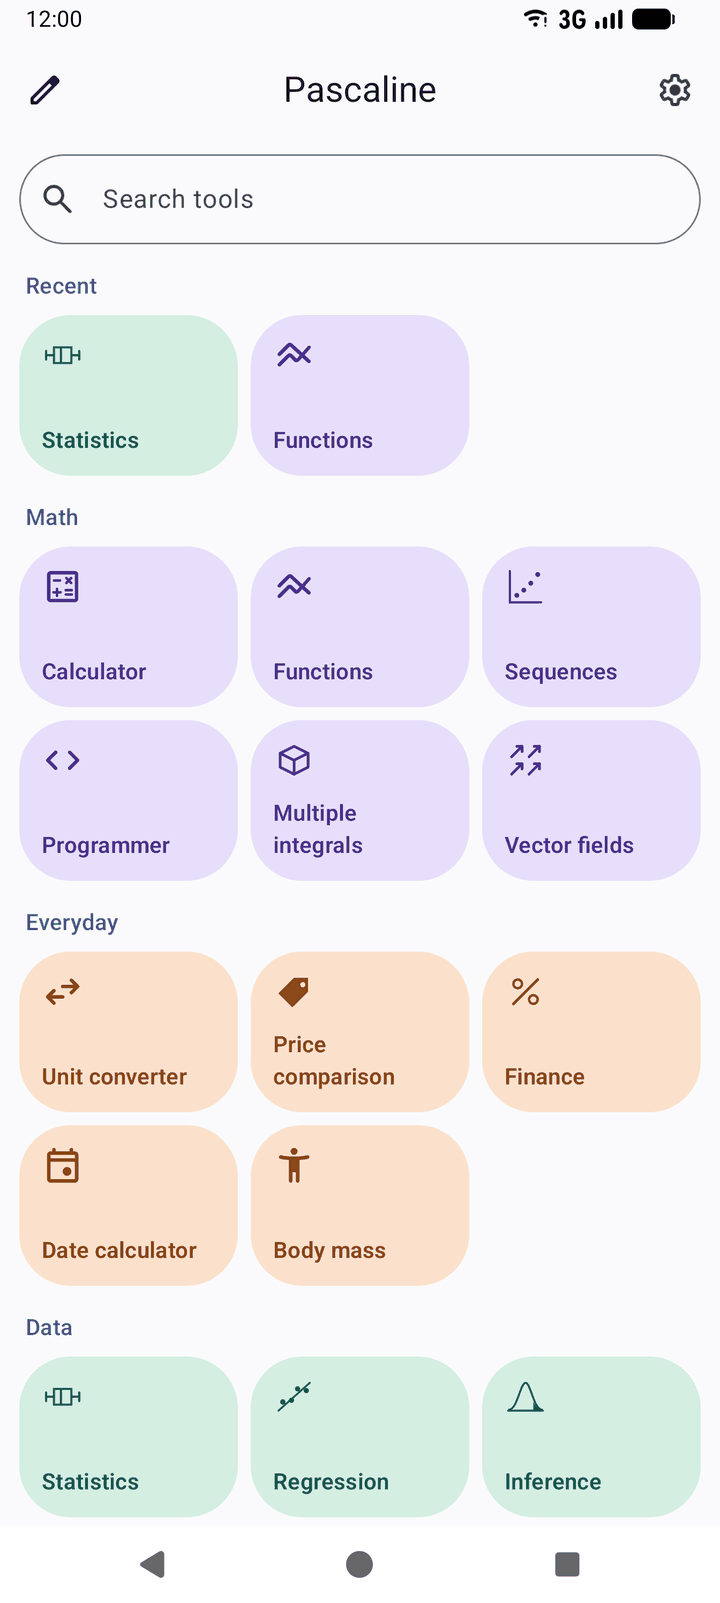
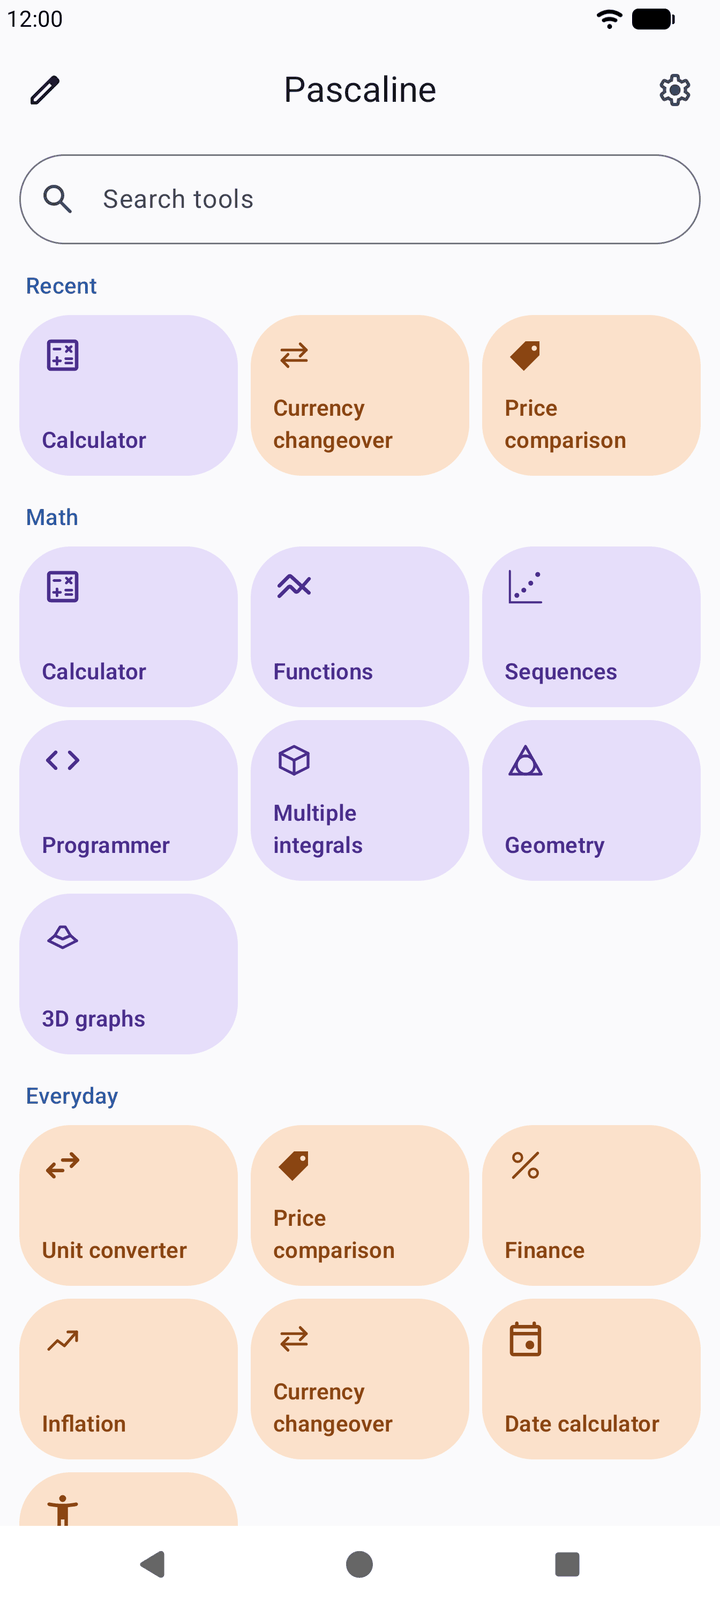
Show the new tools in the README
New pictures of Home, Geometry, 3D graphs, Gears and Currency
changeover, each in its section. Persian is listed with the other
languages, now 23, and Vector fields, part of 3D graphs now, is no
longer named on its own.

diff --git a/README.md b/README.md
@@ -64,7 +64,7 @@ Apps like [AppVerifier](https://github.com/soupslurpr/AppVerifier) show it for a
 <table>
   <tr>
     <td align="center" valign="top" width="33%">
-      <img src="docs/screenshots/home.png" width="240" alt="Home with a search box, the recent tools, then the Math, Everyday and Data sections" /><br />
+      <img src="docs/screenshots/home.png" width="240" alt="Home with a search box, the recent tools, then the Math and Everyday sections with Geometry, 3D graphs, Inflation and Currency changeover" /><br />
     </td>
     <td valign="top">
       Home lists every tool, grouped by topic: <b>Math</b>, <b>Everyday</b>, <b>Data</b>, <b>Science</b> and <b>Electronics</b>.<br /><br />
@@ -122,10 +122,20 @@ Apps like [AppVerifier](https://github.com/soupslurpr/AppVerifier) show it for a
 
 <table>
   <tr>
-    <td align="center" valign="top" width="50%">
+    <td align="center" valign="top" width="33%">
       <b>Multiple integrals</b><br />
       <img src="docs/screenshots/multiple-integrals.png" width="240" alt="The double integral of 4 − x² − y² over the unit disk drawn as a volume in 3D, equal to 10.9957" /><br />
       <sub>Double and triple integrals in 3D you turn with a finger, with bounds that depend on x and y</sub>
+    </td>
+    <td align="center" valign="top" width="33%">
+      <b>3D graphs</b><br />
+      <img src="docs/screenshots/3d-graphs.png" width="240" alt="The level curves of x³ − 3x + y² with the gradient arrows, a minimum at (1, 0) and a saddle point at (−1, 0)" /><br />
+      <sub>Surfaces in 3D or as level curves, with ∇f, div and rot, and the critical points</sub>
+    </td>
+    <td align="center" valign="top" width="33%">
+      <b>Geometry</b><br />
+      <img src="docs/screenshots/geometry.png" width="240" alt="A triangle from a = 7, b = 5 and C = 60°, drawn to scale, with its sides, angles, area, perimeter and heights" /><br />
+      <sub>Triangles from any three values, quadrilaterals, circles and solids</sub>
     </td>
   </tr>
 </table>
@@ -181,6 +191,15 @@ Apps like [AppVerifier](https://github.com/soupslurpr/AppVerifier) show it for a
       <sub>The periodic table, with an animated atom</sub>
     </td>
   </tr>
+  <tr>
+    <td align="center" valign="top" width="33%">
+      <b>Gears</b><br />
+      <img src="docs/screenshots/gears.png" width="240" alt="A train of four gears with two on one shaft, a 6 : 1 ratio, 250 rpm out, the torque, efficiency and power" /><br />
+      <sub>Trains, worms, racks, planetary sets and a ratio finder</sub>
+    </td>
+    <td></td>
+    <td></td>
+  </tr>
 </table>
 
 ### ⚡ Electronics
@@ -220,15 +239,24 @@ Apps like [AppVerifier](https://github.com/soupslurpr/AppVerifier) show it for a
       <sub>Loans, savings, and simple and compound interest</sub>
     </td>
     <td align="center" valign="top" width="33%">
-      <b>And more</b><br />
-      <sub>Sequences, 3D graphs, Orbits, Gears (trains, worms, racks, planetary sets and a ratio finder), Logic gates, Inflation, Currency changeover, Price comparison, Date calculator and Body mass</sub>
+      <b>Currency changeover</b><br />
+      <img src="docs/screenshots/currency-changeover.png" width="240" alt="1 000 French francs in 1995 are worth about 244.98 € today with inflation, 152.45 € at the fixed rate, with the timeline of the franc" /><br />
+      <sub>Old money in euros, with what it was worth then and now</sub>
     </td>
+  </tr>
+  <tr>
+    <td align="center" valign="top" width="33%">
+      <b>And more</b><br />
+      <sub>Sequences, Orbits, Logic gates, Inflation, Price comparison, Date calculator and Body mass</sub>
+    </td>
+    <td></td>
+    <td></td>
   </tr>
 </table>
 
-## 🌍 22 languages
+## 🌍 23 languages
 
-Arabic, Bengali, Chinese, Czech, Dutch, English, French, German, Hindi, Hungarian, Indonesian, Italian, Japanese, Korean, Polish, Portuguese, Russian, Slovak, Spanish, Turkish, Ukrainian and Vietnamese. Arabic reads from right to left, while the keypads and the math stay left to right.
+Arabic, Bengali, Chinese, Czech, Dutch, English, French, German, Hindi, Hungarian, Indonesian, Italian, Japanese, Korean, Persian, Polish, Portuguese, Russian, Slovak, Spanish, Turkish, Ukrainian and Vietnamese. Arabic and Persian read from right to left, while the keypads and the math stay left to right.
 
 ## 🔒 Privacy
 
